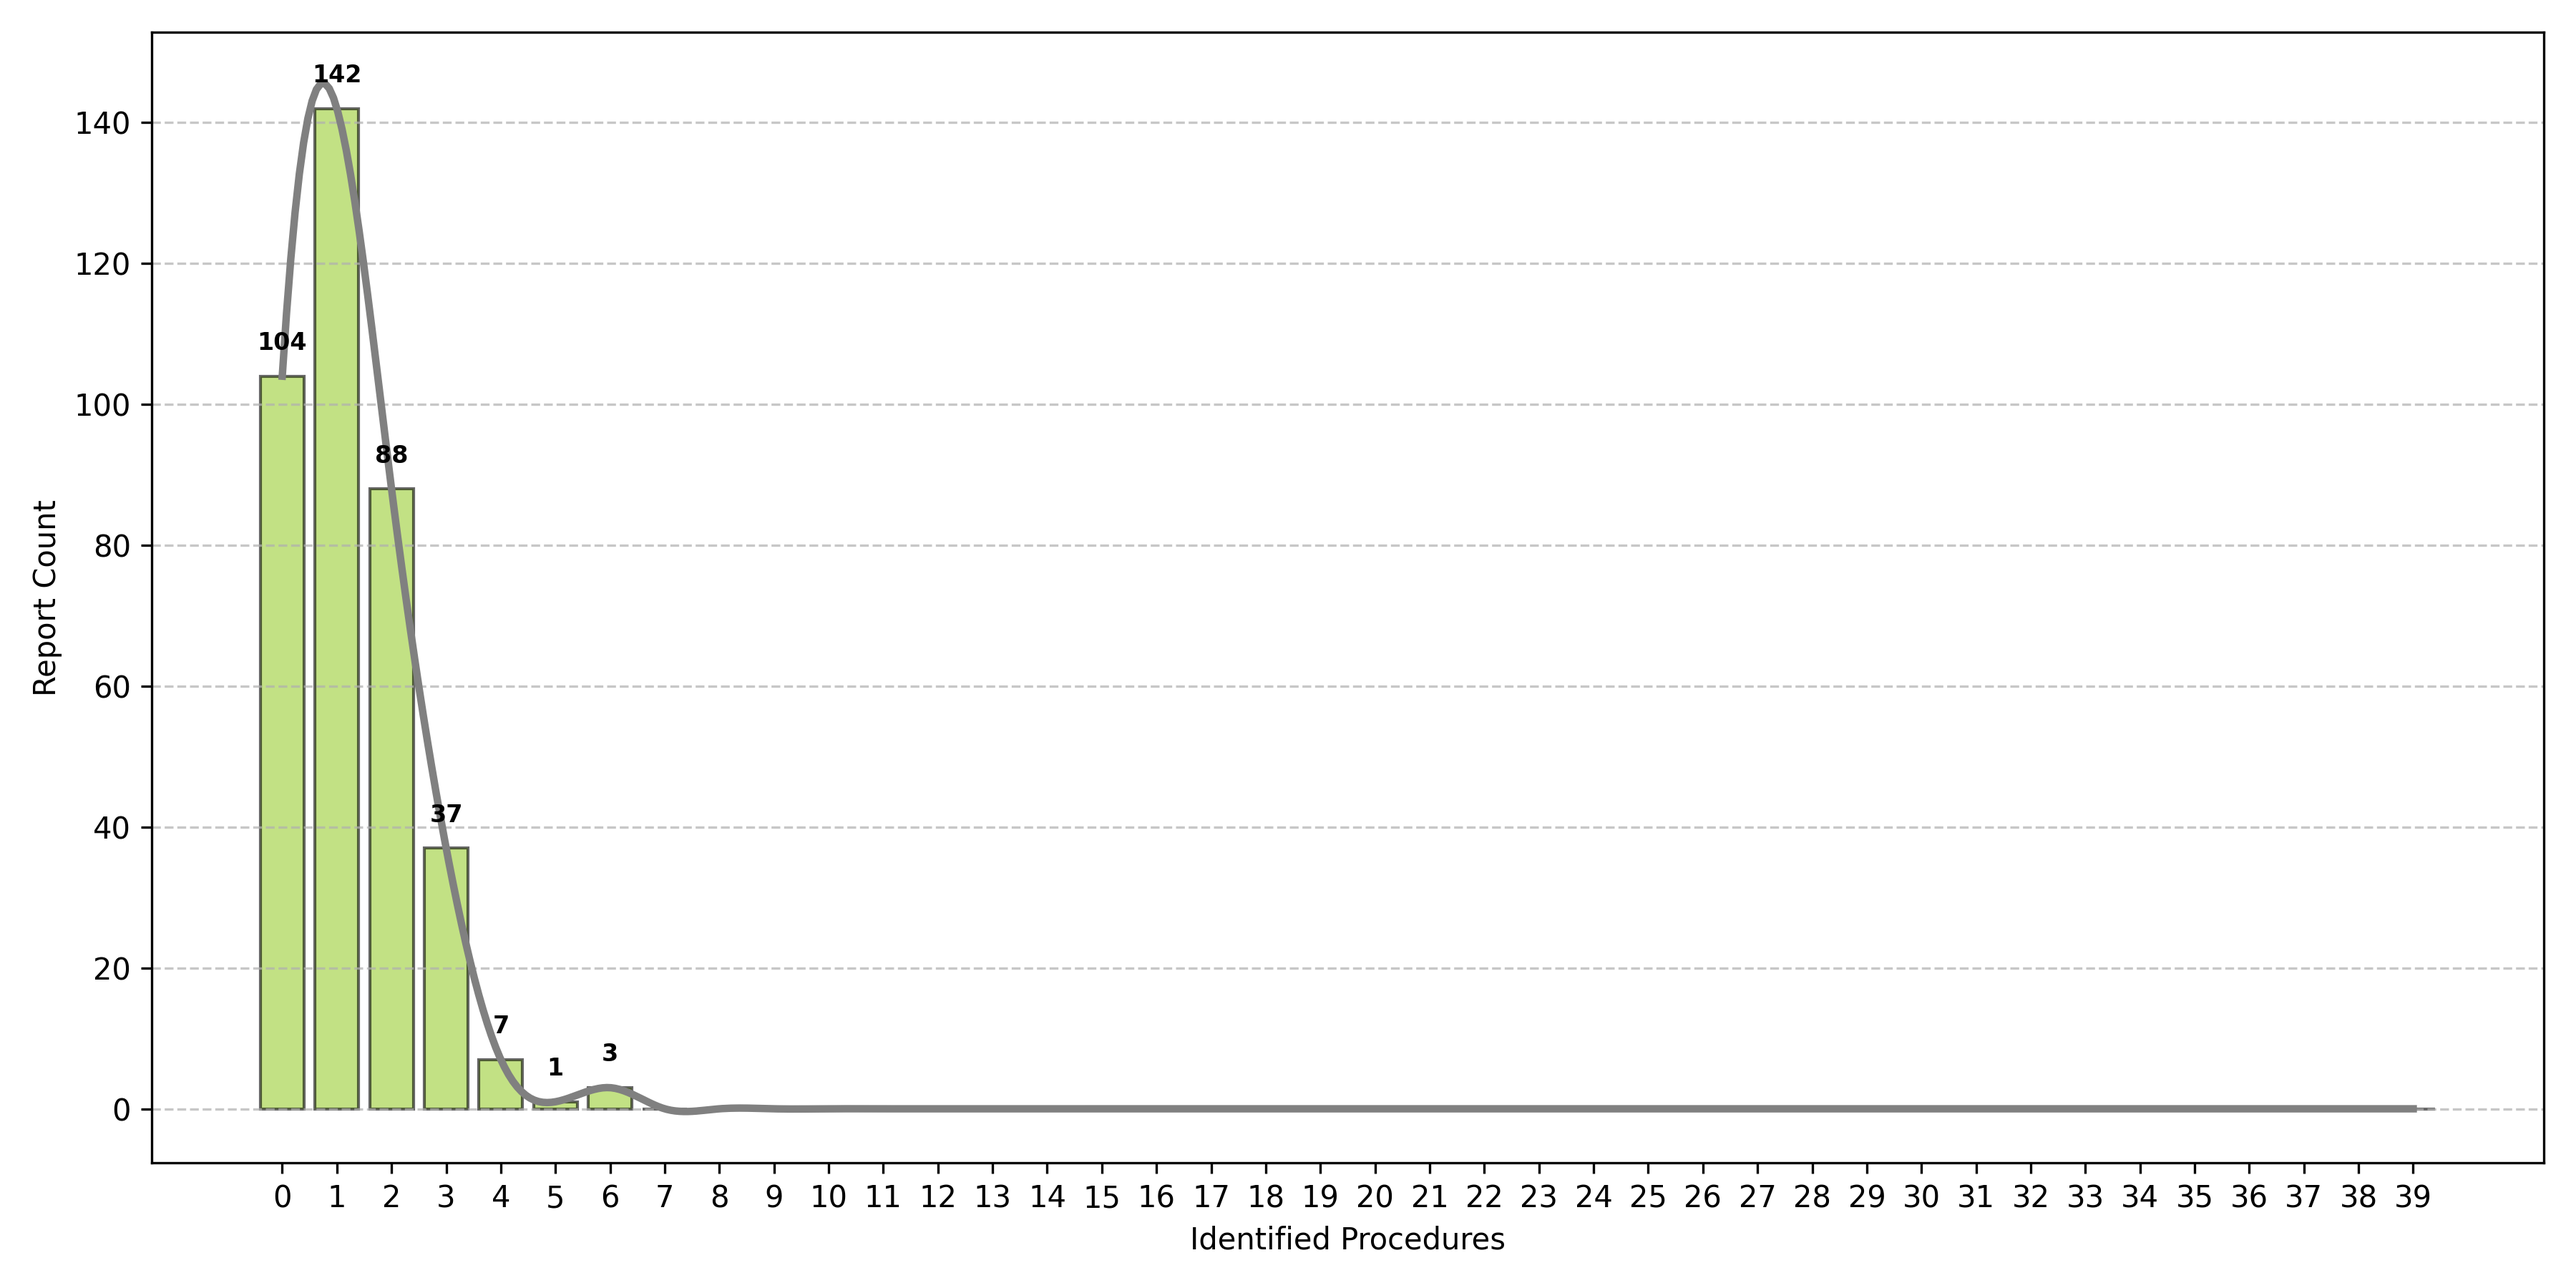
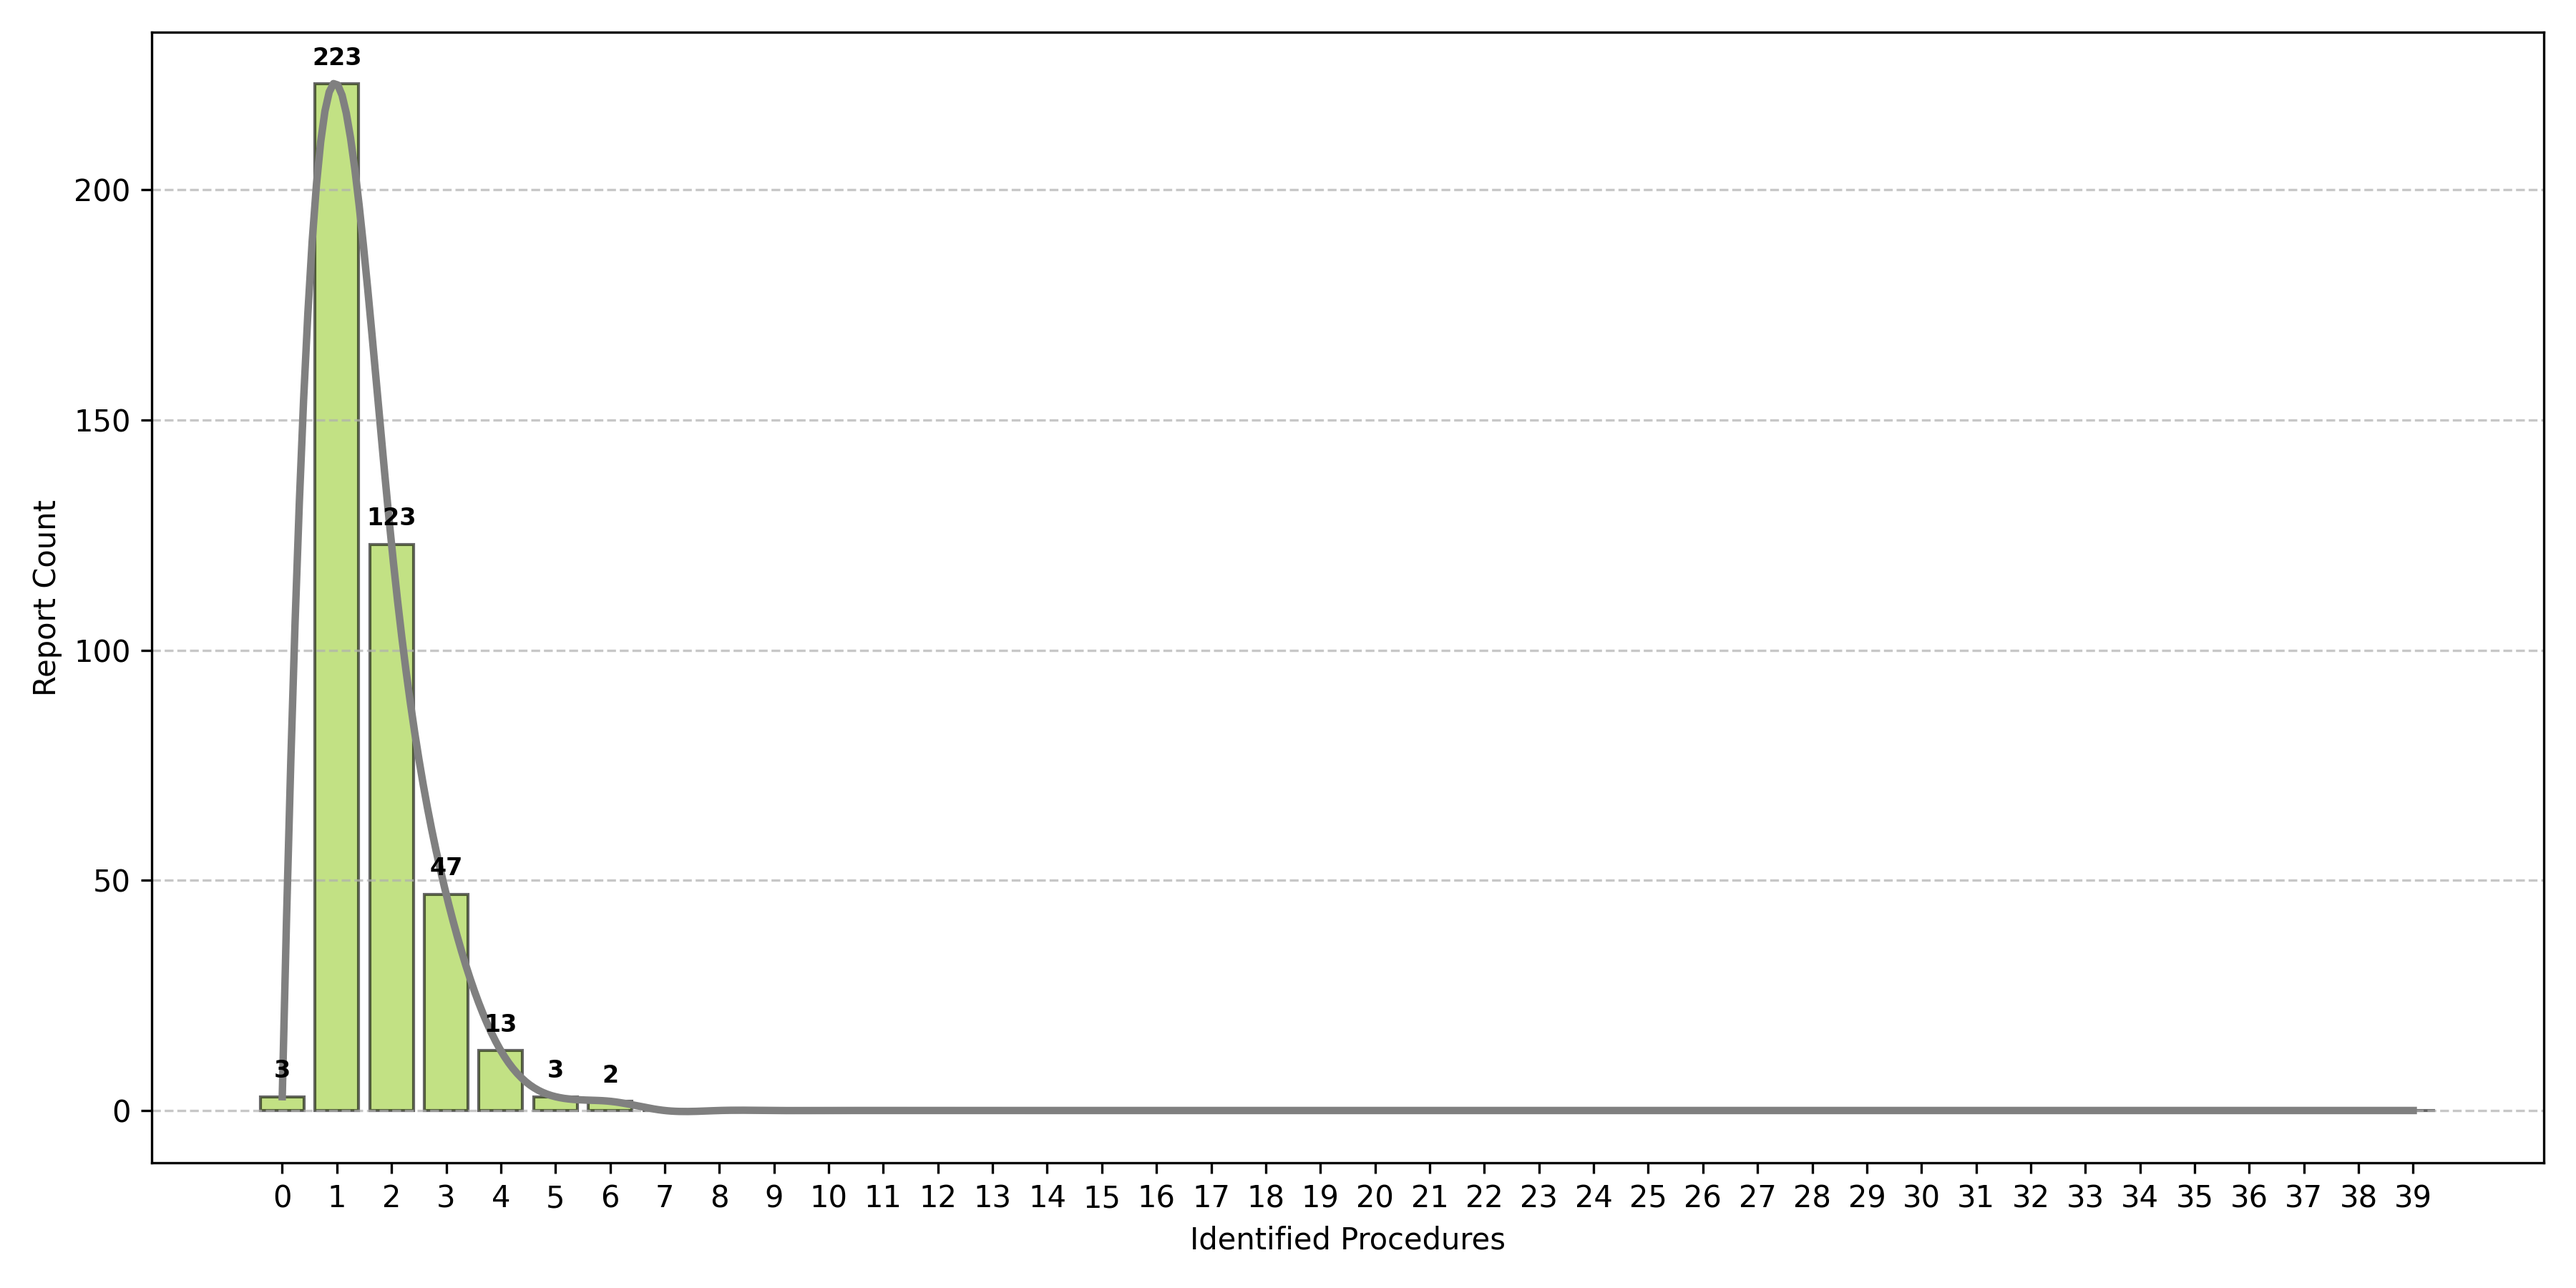
website updated

diff --git a/index.html b/index.html
@@ -103,11 +103,11 @@
 
             </span>
             <span class="author-block">
-              <a href="https://www.linkedin.com/in/arjashok" target="_blank">Kylie Cleland</a>,
+              <a href="" target="_blank">Kylie Cleland</a>,
             </span>
 
             <span class="author-block">
-              <a href="https://www.cs.ucdavis.edu/~filkov/" target="_blank">Roger Eric Goldman</a>
+              <a href="https://health.ucdavis.edu/vascular/team/42868/roger-goldman-vascular-and-interventional-radiology-sacramento" target="_blank">Roger Eric Goldman</a>
             </span>
            
           </div>
@@ -139,7 +139,7 @@
               </span> -->
               <!-- Live Link. -->
               <span class="link-block">
-                <a href="" target="_blank"
+                <a href="https://drive.google.com/file/d/1Jy0-V-84rJn07zEMCqw0YxO2zHxhOxmi/view?usp=drive_link" target="_blank"
                    class="external-link button is-normal is-rounded is-dark">
                   <span class="icon">
                     <i class="fas fa-file-alt"></i>
@@ -150,7 +150,7 @@
 
 
               <span class="link-block">
-                <a href="" target="_blank"
+                <a href="#methodology" target="_blank"
                    class="external-link button is-normal is-rounded is-dark">
                   <span class="icon">
                     <i class="fas fa-cogs"></i>
@@ -161,7 +161,7 @@
 
 
               <span class="link-block">
-                <a href="" target="_blank"
+                <a href="#results" target="_blank"
                    class="external-link button is-normal is-rounded is-dark">
                   <span class="icon">
                     <i class="fas fa-chart-line	"></i>
@@ -257,7 +257,7 @@
     </div>
   </div>
 </section>  -->
-<section class="section" id="Methodology">
+<section class="section" id="methodology">
   <div class="container is-max-desktop">
     <div class="columns is-centered has-text-centered">
       <div class="column is-four-fifths">
@@ -523,7 +523,7 @@ Your response must be a valid JSON object with the following keys:
             <li>Clone the repository:<br><code>git clone https://github.com/Nafiz43/PCL-Fetcher </code>
             <li>Make sure Miniconda is installed. You can follow the official installation guide here: <a href="https://www.anaconda.com/docs/getting-started/miniconda/install" target="_blank">Miniconda Installation Guide</a>.</li>
             <li>Create a conda environment with Python 3.12:<br><code>conda create -n pcl-fetcher python=3.10</code></li>
-            <li>Activate the conda environment:<br><code>conda activate myenv</code></li>
+            <li>Activate the conda environment:<br><code>conda activate pcl-fetcher</code></li>
             <li>Install all required packages:<br><code>pip install -r requirements.txt</code></li>
             <li>Install Ollama:<br>Visit <a href="https://ollama.com/">https://ollama.com/</a> and follow the installation instructions.</li>
             <li>Download the Ollama models you intend to use locally.</li>

diff --git a/00_report_token_count_distribution.py b/00_report_token_count_distribution.py
@@ -2,6 +2,12 @@
 Developed at DECAL Lab in CS Department @ UC Davis by Nafiz Imtiaz Khan (nikhan@ucdavis.edu)
 Copyright © 2025 The Regents of the University of California, Davis campus. All Rights Reserved. Used with permission.
 """
+
+# This script generates histograms and KDE plots for the token counts of radiology reports, both raw and cleaned.
+# It uses the Gaussian KDE method to create a smooth curve representing the distribution of token counts.
+# The histograms and KDE plots are saved as PNG files in the 'figs' directory.
+# The script also includes functions to clean the radiology reports and count the tokens in the reports.
+
 import pandas as pd
 import numpy as np
 import os
@@ -15,7 +21,8 @@ from scipy.stats import gaussian_kde
 
 
 
-df = pd.read_csv('data/Labeled_Reports_2025_02_14_V02.csv')
+
+df = pd.read_csv('data/Ground_Truth_2025_04_21.csv')
 
 token_counts_raw = pd.array(df['Report Text'].apply(lambda x: count_tokens(x) if pd.notnull(x) else 0))
 token_counts_cleaned = pd.array(df['Report Text'].apply(lambda x: clean_radiology_report(x)).apply(lambda x: count_tokens(x) if pd.notnull(x) else 0))

diff --git a/06_collect_question_number.py b/06_collect_question_number.py
@@ -2,7 +2,7 @@
 Developed at DECAL Lab in CS Department @ UC Davis by Nafiz Imtiaz Khan (nikhan@ucdavis.edu)
 Copyright © 2025 The Regents of the University of California, Davis campus. All Rights Reserved. Used with permission.
 """
-# This script collects question numbers from FN and FP files and generates annotated bar plots
+# This script collects the question numbers from the evaluation results of different models and generates a LaTeX table summarizing the false positive (FP) and false negative (FN) counts for each question number across different models.
 
 import re
 import numpy as np

diff --git a/00_procedure_count_distribution.py b/00_procedure_count_distribution.py
@@ -6,11 +6,11 @@ import pandas as pd
 import numpy as np
 
 
-df = pd.read_csv('data/Labeled_Reports_2025_02_14_V02.csv')
+df = pd.read_csv('data/Ground_Truth_2025_04_21.csv')
 df= df.fillna(0)
 
 df.drop(['Accession Number', 'Modality', 'Exam Code', 'Completed',
-       'Completed REG', 'Example Case List', 'Exam Description', 'Report Text', 'Resident'], axis=1, inplace=True)
+       'Completed REG', 'Example Case List', 'Exam Description', 'Report Text', 'Resident'], axis=1, inplace=True, errors='ignore')
 
 distribution_count = []
 for i in range(0, 40):

diff --git a/01_run_llm.py b/01_run_llm.py
@@ -18,7 +18,7 @@ from _constant_func import *
 
 # data = pd.read_csv('data/Labeled/labels_v2.csv')
 # data = pd.read_csv('data/Labeled_Reports_2025_02_14_V02.csv')
-data = pd.read_csv('data/Filtered_MalEdits.csv')
+data = pd.read_csv('data/Need_to_Process_May.csv')
 total_report_count = len(data)
 # data = data[188:]
 
